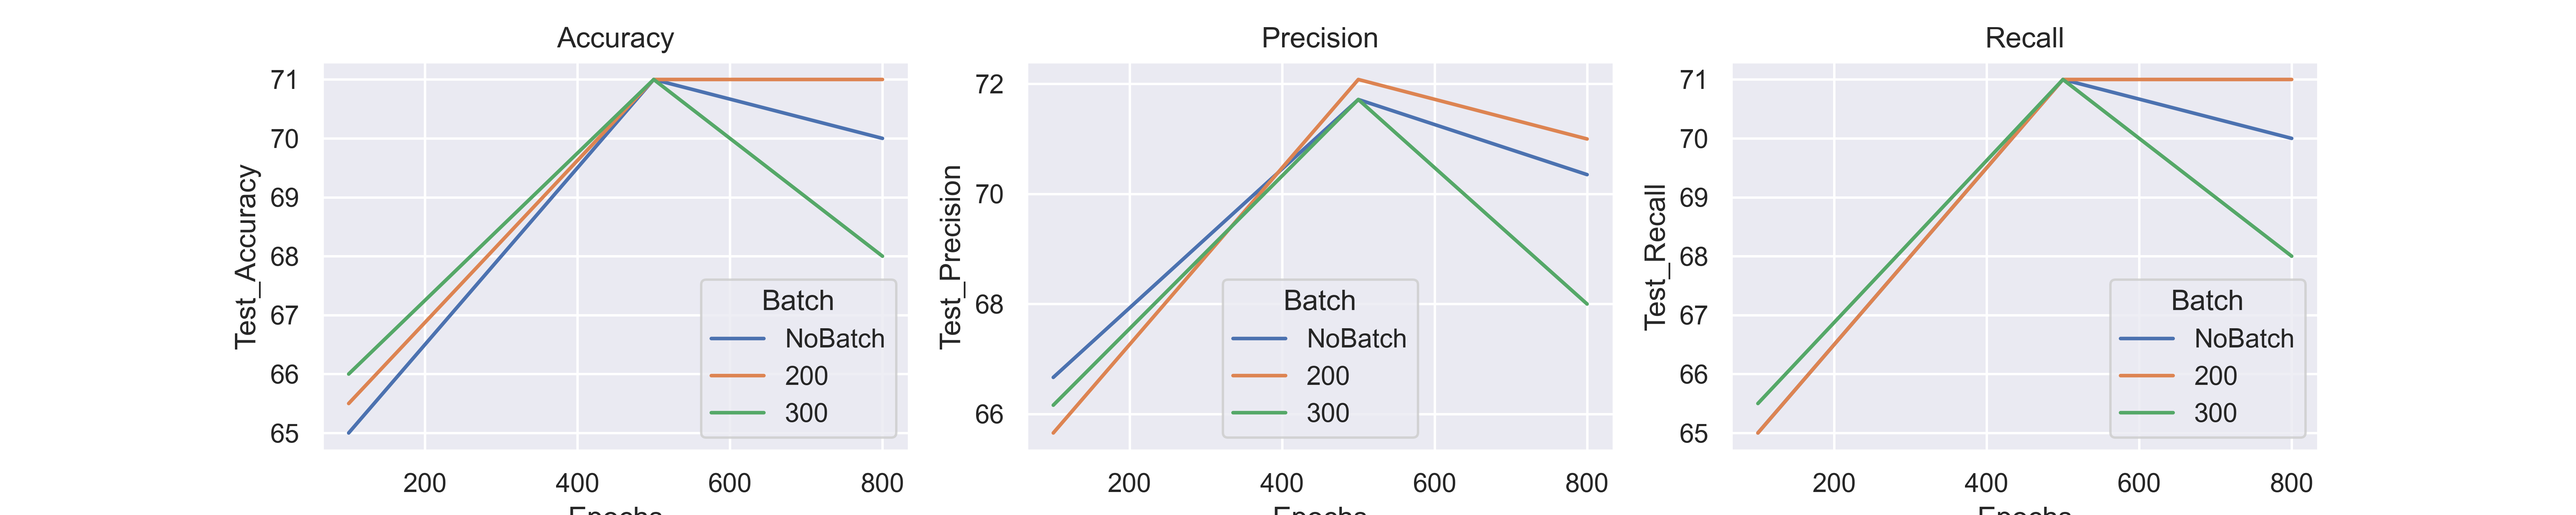
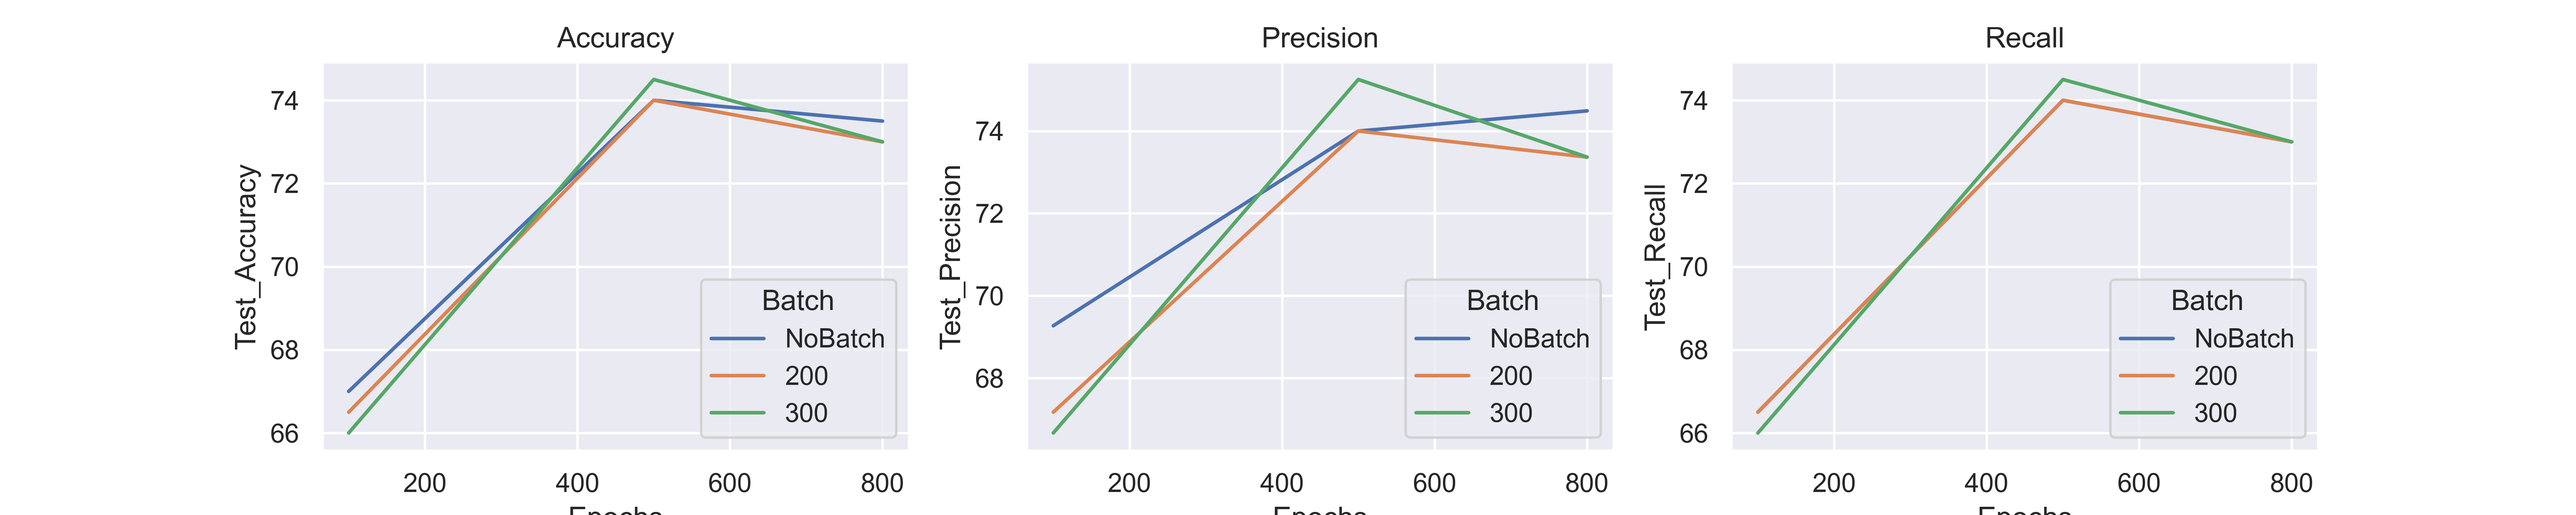
06/02

diff --git a/Python/01_NeuralNetworks_Hyperparam.py b/Python/01_NeuralNetworks_Hyperparam.py
@@ -26,8 +26,8 @@ from tensorflow.keras.layers import Dense, Dropout
 from sklearn.preprocessing import LabelEncoder
 from sklearn.model_selection import train_test_split
 from tensorflow.keras.metrics import CategoricalAccuracy, Precision, Recall
-import FunctionsDataViz
-from FunctionsNN import Neural_Network_Classif, test_index
+import Functions_DataViz
+from Functions_NN import Neural_Network_Classif, test_index
 
 #%% 
 """
@@ -107,7 +107,7 @@ model_object1.compile(optimizer=optimizer_,
                      metrics=[CategoricalAccuracy(), Precision(), Recall()])
 
 NN_1 = Neural_Network_Classif(X1, encoded_Y, model_name1, model_object1)
-res = NN_1.run_GridSearch(n_epochsList, n_batchList, optimizer_, True)
+res = NN_1.run_GridSearch(n_epochsList, n_batchList, optimizer_, False)
                                                 
         
 all_results = all_results.append(NN_1.results_metrics) 
@@ -174,7 +174,7 @@ model_object3.compile(optimizer=optimizer_,
 #Neural Network Classifier Object
 NN_3 = Neural_Network_Classif(X3, encoded_Y, model_name3, model_object3)
 #Run GridSearch
-res = NN_3.run_GridSearch(n_epochsList, n_batchList, optimizer_, True)
+res = NN_3.run_GridSearch(n_epochsList, n_batchList, optimizer_, False)
 #Append results                                               
 all_results = all_results.append(NN_3.results_metrics) 
 
@@ -261,7 +261,7 @@ model_object5.compile(optimizer=optimizer_,
 #Neural Network Classifier Object
 NN_5 = Neural_Network_Classif(X5, encoded_Y, model_name5, model_object5)
 #Run GridSearch
-res = NN_5.run_GridSearch(n_epochsList, n_batchList, optimizer_, True)
+res = NN_5.run_GridSearch(n_epochsList, n_batchList, optimizer_, False)
 #Append results                                               
 all_results = all_results.append(NN_5.results_metrics) 
 
@@ -308,7 +308,7 @@ model_object6.compile(optimizer=optimizer_,
 #Neural Network Classifier Object
 NN_6 = Neural_Network_Classif(X6, encoded_Y, model_name6, model_object6)
 #Run GridSearch
-res = NN_6.run_GridSearch(n_epochsList, n_batchList, optimizer_, True)
+res = NN_6.run_GridSearch(n_epochsList, n_batchList, optimizer_, False)
 #Append results                                               
 all_results = all_results.append(NN_6.results_metrics) 
 
@@ -354,7 +354,7 @@ model_object7.compile(optimizer=optimizer_,
 #Neural Network Classifier Object
 NN_7 = Neural_Network_Classif(X7, encoded_Y, model_name7, model_object7)
 #Run GridSearch
-res = NN_7.run_GridSearch(n_epochsList, n_batchList, optimizer_, True)
+res = NN_7.run_GridSearch(n_epochsList, n_batchList, optimizer_, False)
 #Append results                                               
 all_results = all_results.append(NN_7.results_metrics) 
 
@@ -363,6 +363,6 @@ all_results = all_results.append(NN_7.results_metrics)
 MPlot the metrics to compare different models
 
 """
-plot1 =plot_metrics_AllModels(metric_='Test_Accuracy', hyperparam_='Epochs',
+plot1 = Functions_DataViz.plot_metrics_AllModels(metric_='Test_Accuracy', hyperparam_='Epochs',
                               all_results_=all_results)
 #plot1.savefig('Outputs/NN_metrics/plot_metrics_testaccuracyepochs.png', dpi=500)

diff --git a/Python/02_NN_Train_Model.py b/Python/02_NN_Train_Model.py
@@ -15,7 +15,7 @@
 
 import numpy as np
 import pandas as pd
-from FunctionsNN import Neural_Network_Classif, test_index
+from Functions_NN import Neural_Network_Classif, test_index
 import seaborn as sns
 from matplotlib import pyplot as plt
 import tensorflow as tf
@@ -26,6 +26,7 @@ from sklearn.preprocessing import LabelEncoder
 from sklearn.model_selection import train_test_split
 from tensorflow.keras.metrics import CategoricalAccuracy, Precision, Recall
 
+#%%
 """
 Import the data from the csv 
 """
@@ -60,22 +61,22 @@ np.savetxt("Inputs/classes_ordered.txt", classes, delimiter=",", fmt='%s')
 
 #%% 
 """
-Model 4 = Neural Network with : 
+Final Model = Neural Network with : 
             60 mean/std MFCCs + 
             24 mean/std Chromas + 
             1 mean Tempo
 
 """
 #Features
-X3 = df_mean_mfccs.join(df_std_mfccs, lsuffix='_MeanMFCC', rsuffix='_StdMFCC')
-X4 = X3.join(df_mean_chromas.join(df_std_chromas, lsuffix='_MeanChroma', 
+X = df_mean_mfccs.join(df_std_mfccs, lsuffix='_MeanMFCC', rsuffix='_StdMFCC').join(df_mean_chromas.join(df_std_chromas, lsuffix='_MeanChroma', 
                                   rsuffix='_StdChroma')).join(df_tempo,rsuffix='tempo')
 
 #Name of the model
-model_name4 = 'NN_85col_MeanStd_MFCCChromaTempo'
+model_name = 'FinalModel'
+optimizer_ = 'adam'
 
 #Creation of the structure
-model_object4 = Sequential( [ 
+model_object = Sequential( [ 
         Dense(85, activation='relu', input_shape=(85,)), #Hidden dense layer (fully connected with ReLu activation)
         Dense(75, activation='relu'),
         Dense(65, activation='linear'),
@@ -88,17 +89,17 @@ model_object4 = Sequential( [
     ])
 
 #Compile the model
-model_object4.compile(optimizer=optimizer_,
+model_object.compile(optimizer=optimizer_,
                      loss='categorical_crossentropy',
                      metrics=[CategoricalAccuracy(), Precision(), Recall()])
 
 #Neural Network Classifier Object
-NN_4 = Neural_Network_Classif(X4, encoded_Y, model_name4, model_object4)
+Final_NN = Neural_Network_Classif(X, encoded_Y, model_name, model_object)
 #Run GridSearch
-res = NN_4.run_GridSearch([100], [None], 'adam', False)
+res = Final_NN.run_GridSearch([500], [None], optimizer_, False)
                                              
-print('Test accuracy on chosen model = {}'.format(NN_4.results_metrics['Test_Accuracy'][0]))
+print('Test accuracy on chosen model = {}'.format(Final_NN.results_metrics['Test_Accuracy'][0]))
 
-
+#%%
 # SAVE THE MODEL
-#model_object4.save('trained_model')
+#model_object4.save('Inputs/trained_model')

diff --git a/Python/Functions_NN.py b/Python/Functions_NN.py
@@ -12,7 +12,7 @@ from tensorflow.keras.layers import Dense
 from sklearn.preprocessing import LabelEncoder
 from sklearn.model_selection import train_test_split
 from tensorflow.keras.metrics import Recall, Precision, Accuracy
-import FunctionsDataViz
+import Functions_DataViz
 import pandas as pd
 
 
@@ -64,7 +64,7 @@ class Neural_Network_Classif:
         all_results.loc[all_results['Batch'].isna(),'Batch']='NoBatch'
         fig=None
         if save_plot:
-            fig = FunctionsDataViz.plot_metricsNN(x_='Epochs', hue_='Batch', all_results=all_results)
+            fig = Functions_DataViz.plot_metricsNN(x_='Epochs', hue_='Batch', all_results=all_results)
             fig.savefig('Outputs/NN_metrics/Data_viZ'+self.model_name+'.png', dpi=500)
             print('Plot saved')
         

diff --git a/README.md b/README.md
@@ -36,9 +36,7 @@ In 2002, Tzanetakis present a new well-known musical dataset : the GTZAN dataset
 We found this dataset on Kaggle which comes pre-organised into folders for each genre. This dataset is very interesting because classes are already well balanced. However, it is quite small, some of the tracks are mislabeled and others come from the same song. 
 
 So, we decided to improve this dataset by adding new songs and new genres using webscrapping on YouTube.
-
-# Processing
-
+![alt text](Outputs/waveforms.png "Waveplot visualization of 4 different-genre musical extracts")
 # Extracting features from audio files
 To use Machine Learning and create a classifier based on audio files alone, we need our data to be represented numerically. The first step is to process our dataset to extract relevant characteristics and store them in vector format. 
 In 2008, Panagakis and al. said that there are three types of audio feature usually employed in music classification :
@@ -60,19 +58,20 @@ In sound processing, the mel-frequency cepstrum is a representation of the short
   - Computation of the logarithms of the filterbank energies.
   - Transformation on the logarithms into discrete cosine and deletion of approximately half of the results.
  
-→ MFCCs : time series vector for each frame.
+![alt text](Outputs/MFCs.png "Mel-frequency spectrogram of 4 different-genre musical extracts")
 
 ### Chroma features
 These features are related to musical notes in a song. It is the estimation of the intensity with which each note is present in an audio file and how the changes between two notes occurs in time. These information are useful because each musical genre tends towards different key signature that is the most frequently played note in a song. 
+![alt text](Outputs/Chromagrams.png "Chromagram of 4 different-genre musical extracts")
 
 ### Tempo
 To classify music, an estimation of the average musical tempo is useful as a song includes several tempo changes throughout its duration. Indeed, each musical genre is usually played at different speeds.  A lot of music are set to a fixed number of beats per minute. We can estimate the number of beats per minute and rhythmics emphases given the rhythmic emphasis placed on each beat of a bar.
+![alt text](Outputs/Tempograms.png "Tempogram of 4 different-genre musical extracts")
 
 # Train our classifier
-There are 87 neurons in the input layer, one for each feature of an audio file, six hidden layers with different activation functions, and 10 neurons in the output layer, one for each musical genre. We used different activation function for each layer : ReLu, ReLu, Linear, ReLu, Linear, ReLu, ReLu, Softmax.
+There are 85 neurons in the input layer, one for each feature of an audio file, seven hidden layers with different activation functions, and 10 neurons in the output layer, one for each musical genre. We used different activation function for each layer : ReLu, ReLu, Linear, ReLu, Linear, ReLu, ReLu, Softmax.
 We use a Sequential model as it is appropriate for a plain stack of layers where each layer has exactly one input tensor and one output tensor. We created a Sequential model by passing the list of layers to the Sequential constructor.
 
-![alt text](Python/Outputs/waveforms.png "Waveplot visualization of 4 different-genre musical extracts")
-![alt text](Python/Outputs/MFCs.png "Mel-frequency spectrogram of 4 different-genre musical extracts")
-![alt text](Python/Outputs/Chromagrams.png "Chromagram of 4 different-genre musical extracts")
-![alt text](Python/Outputs/Tempograms.png "Tempogram of 4 different-genre musical extracts")
+# Train our classifier
+![alt text](Outputs/NN_metrics/AllModels.png "Tempogram of 4 different-genre musical extracts")
+
